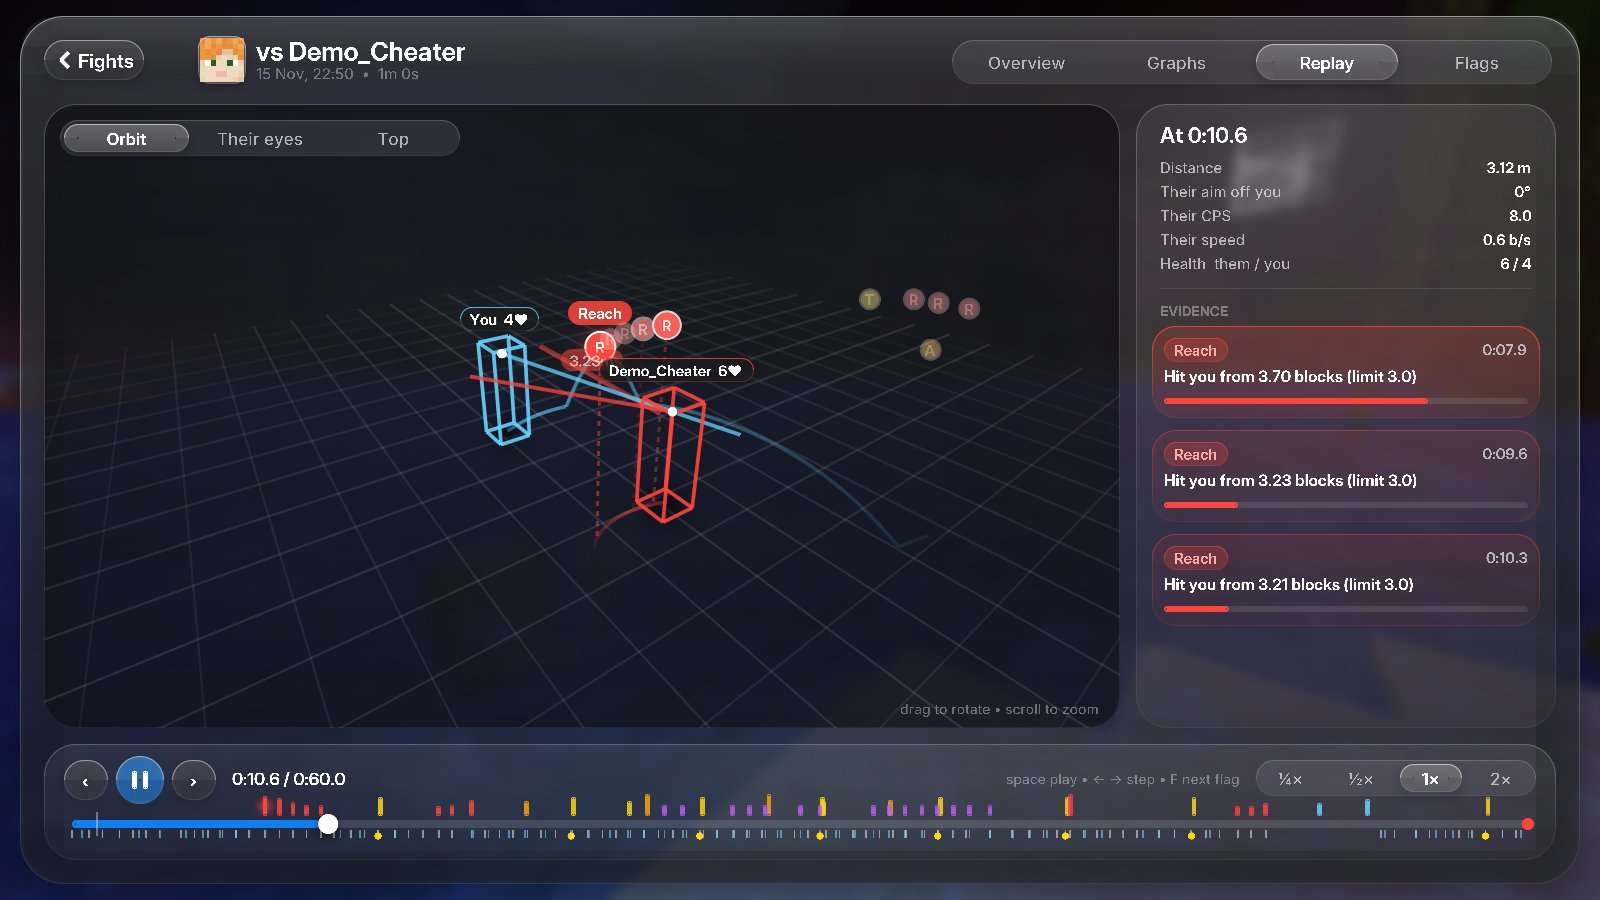
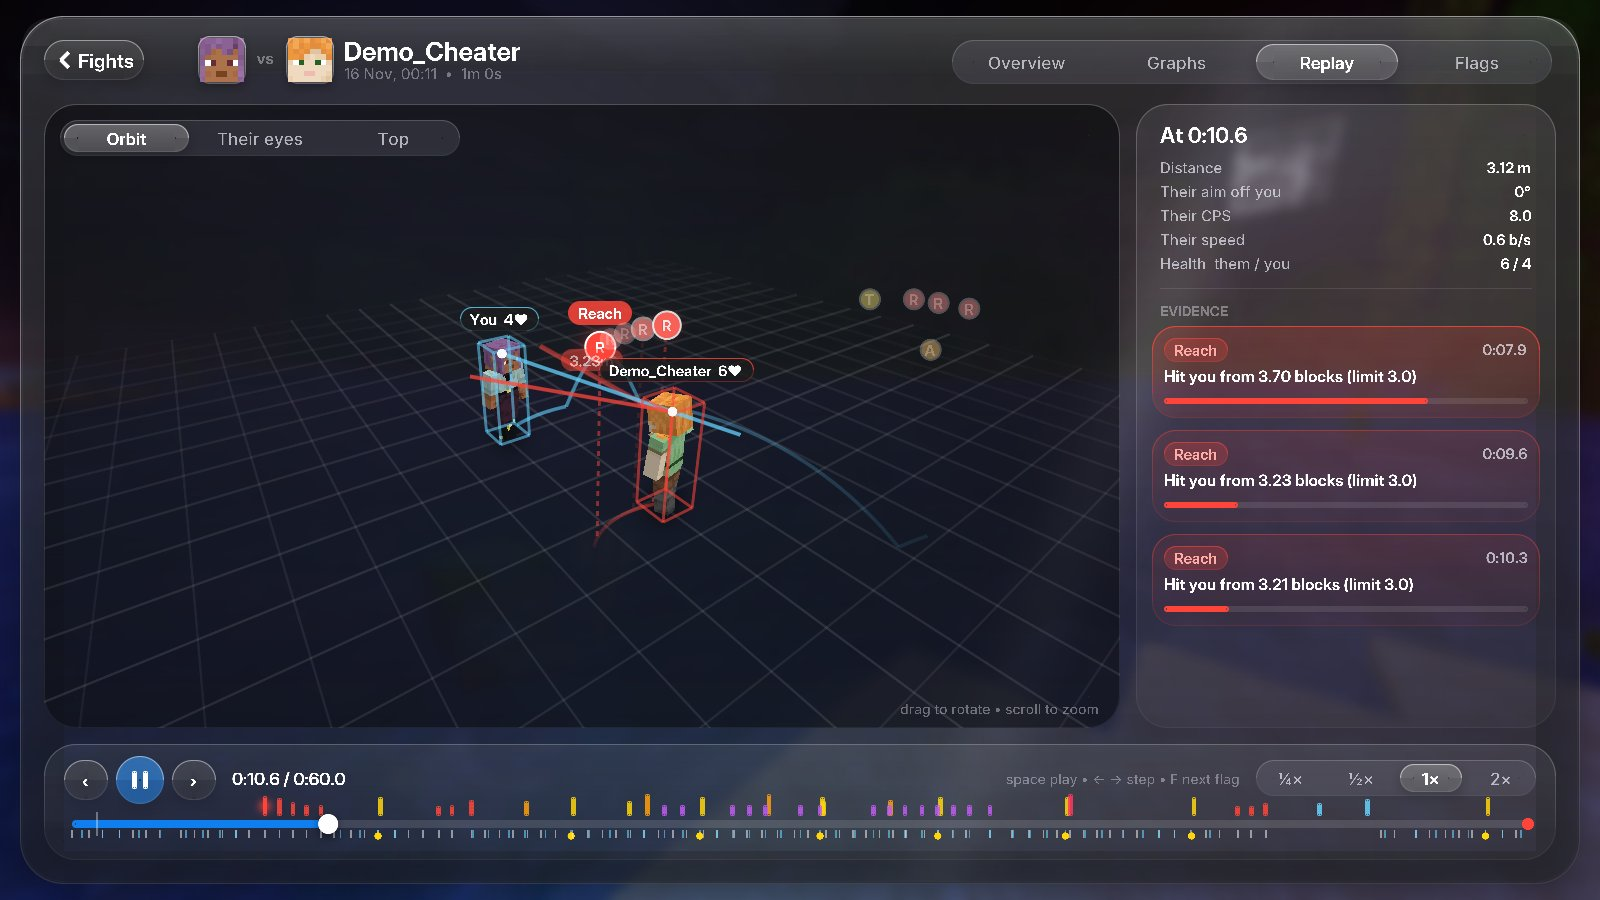
Show both players' skins in the replay
Players are drawn as real skinned Minecraft models (head, hat layer, body,
arms incl. slim, legs) with walk animation, attack swings and head pitch.
Skins come from the tab list, or from the signed skin property now saved with
each fight so they still load after a player logs off. The report header shows
your head and theirs.

Claude-Session: https://claude.ai/code/session_01NpriFT8grMu5KJukege1Ze

Changed region(s): [[0.125, 0.0311, 0.3125, 0.0933], [0.375, 0.4356, 0.4375, 0.5911], [0.2812, 0.3733, 0.3438, 0.4978]]

diff --git a/src/main/java/dev/pvpmod/analyzer/gui/ReplayView.java b/src/main/java/dev/pvpmod/analyzer/gui/ReplayView.java
@@ -9,6 +9,16 @@ import dev.pvpmod.analyzer.PState;
 import dev.pvpmod.glass.Col;
 import dev.pvpmod.glass.GFont;
 import dev.pvpmod.glass.Glass;
+import net.minecraft.client.MinecraftClient;
+import net.minecraft.client.gl.RenderPipelines;
+import net.minecraft.entity.player.PlayerSkinType;
+import net.minecraft.entity.player.SkinTextures;
+import net.minecraft.util.Identifier;
+import org.joml.Matrix3x2f;
+import org.joml.Matrix3x2fStack;
+
+import java.util.ArrayList;
+import java.util.List;
 
 /**
  * A small software 3D renderer for the replay: projects the recorded players, their hitboxes, look rays, trails,
@@ -20,7 +30,7 @@ final class ReplayView {
     final FightRecord rec;
     final Analyzer an;
     int mode = ORBIT;
-    float yaw = 35f, pitch = 28f, dist = 9f;
+    float yaw = 35f, pitch = 22f, dist = 6.5f;
     double tx = Double.NaN, ty, tz;     // smoothed orbit target
 
     // camera basis
@@ -221,7 +231,12 @@ final class ReplayView {
             }
         }
 
-        // players
+        // players: skinned models, then hitbox, look ray and name tag on top
+        List<Face> faces = new ArrayList<>();
+        modelFaces(faces, me, mySkin(), ph, true);
+        if (mode != EYES) modelFaces(faces, op, Ui.skin(rec.opUuid, rec.opName, rec.opTex, rec.opSig), ph, false);
+        faces.sort((a, b) -> Double.compare(b.depth, a.depth));
+        for (Face f : faces) drawFace(f);
         drawPlayer(me, Col.CYAN, "You", mode != EYES);
         if (mode != EYES) drawPlayer(op, Col.RED, rec.opName, true);
 
@@ -240,7 +255,7 @@ final class ReplayView {
         if (p == null) return;
         boolean absent = p.has(PState.ABSENT);
         float a = absent ? 0.3f : 1f;
-        box(p, Col.a(rgb, 0.9f * a), 1.5f);
+        box(p, Col.a(rgb, 0.55f * a), 1.0f);
         if (showLook && !absent) {
             double[] l = Analyzer.look(p.yw, p.pt);
             double len = 4.5;
@@ -259,4 +274,134 @@ final class ReplayView {
     }
 
     private static double clamp(double v, double lo, double hi) { return Math.max(lo, Math.min(hi, v)); }
+
+    // ------------------------------------------------------------------ skinned player models
+    private record Face(float[] s0, float[] s1, float[] s3, double depth, Identifier tex, int u, int v, int w, int h, int color) {}
+
+    private double[] meDist, opDist;
+
+    private SkinTextures mySkin() {
+        String id = rec.meUuid;
+        if (id == null || id.isEmpty()) id = MinecraftClient.getInstance().getGameProfile().id().toString();
+        return Ui.skin(id, rec.meName, rec.meTex, rec.meSig);
+    }
+
+    /** Cumulative horizontal distance walked, which drives the arm and leg swing like the real game. */
+    private double[] dist(boolean mine) {
+        if (mine && meDist != null) return meDist;
+        if (!mine && opDist != null) return opDist;
+        int n = rec.frames.size();
+        double[] d = new double[n];
+        for (int i = 1; i < n; i++) {
+            PState a = mine ? rec.frames.get(i - 1).me : rec.frames.get(i - 1).op;
+            PState b = mine ? rec.frames.get(i).me : rec.frames.get(i).op;
+            double dx = b.x - a.x, dz = b.z - a.z, step = Math.sqrt(dx * dx + dz * dz);
+            d[i] = d[i - 1] + (step > 2 ? 0 : step);
+        }
+        if (mine) meDist = d; else opDist = d;
+        return d;
+    }
+
+    private double distAt(double[] d, float ph) {
+        int i = Math.max(0, Math.min(d.length - 1, (int) ph)), j = Math.min(d.length - 1, i + 1);
+        return d[i] + (d[j] - d[i]) * Math.max(0, Math.min(1, ph - i));
+    }
+
+    /** 0..1 progress of an attack swing at the playhead, or -1. */
+    private float swing(float ph, boolean mine) {
+        int t = (int) ph;
+        if (mine) {
+            for (FightEvent e : rec.events)
+                if (e.k == FightEvent.Kind.HIT_OP && e.t <= ph && ph - e.t < 6) return (ph - e.t) / 6f;
+            return -1;
+        }
+        for (int i = t; i >= Math.max(0, t - 5); i--) {
+            if (i < rec.frames.size() && rec.frames.get(i).op.s > 0) return Math.min(1f, (ph - i) / 6f);
+        }
+        return -1;
+    }
+
+    private void modelFaces(List<Face> out, PState p, SkinTextures skin, float ph, boolean mine) {
+        if (p == null || rec.frames.isEmpty()) return;
+        Identifier tex = skin.body().texturePath();
+        boolean slim = skin.model() == PlayerSkinType.SLIM;
+        double[] d = dist(mine);
+        double phase = distAt(d, ph) * 2.66;
+        double speed = distAt(d, ph) - distAt(d, ph - 1);
+        double amt = clamp(speed * 4.5, 0, 1);
+        double leg = Math.cos(phase) * 1.4 * amt * 0.6;
+        double arm = Math.cos(phase + Math.PI) * amt * 0.8;
+        float sw = swing(ph, mine);
+        double attack = sw >= 0 ? -Math.sin(sw * Math.PI) * 1.5 - 0.25 : 0;
+        double headPitch = Math.toRadians(clamp(p.pt, -90, 90));
+        float alpha = (p.has(PState.ABSENT) ? 0.3f : 1f) * Glass.alpha;
+        int aw = slim ? 3 : 4;
+
+        //            x0     y0    z0    x1      y1    z1   texU texV  uw  uh  ud  pivotY pivotX rot
+        part(out, p, tex, alpha, -4, 24, -4, 4, 32, 4, 0, 0, 8, 8, 8, 0, 24, headPitch);
+        part(out, p, tex, alpha, -4.5, 23.5, -4.5, 4.5, 32.5, 4.5, 32, 0, 8, 8, 8, 0, 24, headPitch);
+        part(out, p, tex, alpha, -4, 12, -2, 4, 24, 2, 16, 16, 8, 12, 4, 0, 12, 0);
+        part(out, p, tex, alpha, -4 - aw, 12, -2, -4, 24, 2, 40, 16, aw, 12, 4, -5, 22, arm + attack);
+        part(out, p, tex, alpha, 4, 12, -2, 4 + aw, 24, 2, 32, 48, aw, 12, 4, 5, 22, -arm);
+        part(out, p, tex, alpha, -4, 0, -2, 0, 12, 2, 0, 16, 4, 12, 4, -2, 12, leg);
+        part(out, p, tex, alpha, 0, 0, -2, 4, 12, 2, 16, 48, 4, 12, 4, 2, 12, -leg);
+    }
+
+    /** One box of the player model (Minecraft skin layout), as up to 6 textured faces facing the camera. */
+    private void part(List<Face> out, PState p, Identifier tex, float alpha,
+                      double x0, double y0, double z0, double x1, double y1, double z1,
+                      int tu, int tv, int w, int h, int dd, double pivX, double pivY, double rot) {
+        double[][][] faces = {
+            // {p0 (image top-left), p1 (top-right), p3 (bottom-left), normal}
+            {{x0, y1, z1}, {x1, y1, z1}, {x0, y0, z1}, {0, 0, 1}},
+            {{x1, y1, z0}, {x0, y1, z0}, {x1, y0, z0}, {0, 0, -1}},
+            {{x0, y1, z0}, {x0, y1, z1}, {x0, y0, z0}, {-1, 0, 0}},
+            {{x1, y1, z1}, {x1, y1, z0}, {x1, y0, z1}, {1, 0, 0}},
+            {{x0, y1, z0}, {x1, y1, z0}, {x0, y1, z1}, {0, 1, 0}},
+            {{x0, y0, z1}, {x1, y0, z1}, {x0, y0, z0}, {0, -1, 0}}
+        };
+        int[][] uv = {
+            {tu + dd, tv + dd, w, h}, {tu + 2 * dd + w, tv + dd, w, h}, {tu, tv + dd, dd, h},
+            {tu + dd + w, tv + dd, dd, h}, {tu + dd, tv, w, dd}, {tu + dd + w, tv, w, dd}
+        };
+        float[] shade = {0.85f, 0.85f, 0.68f, 0.68f, 1f, 0.5f};
+        double k = 1.8 / 32.0, yaw = Math.toRadians(p.yw), drop = p.has(PState.SNEAK) ? 0.15 : 0;
+        double cr = Math.cos(rot), sr = Math.sin(rot), cyw = Math.cos(yaw), syw = Math.sin(yaw);
+        for (int f = 0; f < 6; f++) {
+            double[][] q = new double[4][3];
+            double[][] src = {faces[f][0], faces[f][1], faces[f][2],
+                {faces[f][1][0] + faces[f][2][0] - faces[f][0][0], faces[f][1][1] + faces[f][2][1] - faces[f][0][1], faces[f][1][2] + faces[f][2][2] - faces[f][0][2]}};
+            for (int c = 0; c < 4; c++) {
+                double mx = src[c][0] - pivX, my = src[c][1] - pivY, mz = src[c][2];
+                double ry = my * cr - mz * sr, rz = my * sr + mz * cr;          // pitch about the pivot
+                double wx = (mx + pivX) * k, wy = (ry + pivY) * k, wz = rz * k;
+                q[c][0] = p.x + wx * cyw - wz * syw;                              // body yaw
+                q[c][1] = p.y - drop + wy;
+                q[c][2] = p.z + wx * syw + wz * cyw;
+            }
+            double[] n = faces[f][3];
+            double ny = n[1] * cr - n[2] * sr, nz = n[1] * sr + n[2] * cr, nx = n[0];
+            double wnx = nx * cyw - nz * syw, wnz = nx * syw + nz * cyw;
+            double fcx = (q[0][0] + q[3][0]) / 2, fcy = (q[0][1] + q[3][1]) / 2, fcz = (q[0][2] + q[3][2]) / 2;
+            if (wnx * (fcx - cx) + ny * (fcy - cy) + wnz * (fcz - cz) >= 0) continue;   // back face
+            double[] c0 = cam(q[0][0], q[0][1], q[0][2]), c1 = cam(q[1][0], q[1][1], q[1][2]),
+                c2 = cam(q[2][0], q[2][1], q[2][2]), c3 = cam(q[3][0], q[3][1], q[3][2]);
+            if (c0[2] < 0.1 || c1[2] < 0.1 || c2[2] < 0.1 || c3[2] < 0.1) continue;
+            int sh = Math.round(255 * shade[f]);
+            int color = (Math.round(alpha * 255) << 24) | (sh << 16) | (sh << 8) | sh;
+            out.add(new Face(screen(c0), screen(c1), screen(c2), cam(fcx, fcy, fcz)[2], tex, uv[f][0], uv[f][1], uv[f][2], uv[f][3], color));
+        }
+    }
+
+    /** Draws a face as an affine-mapped textured quad. */
+    private void drawFace(Face f) {
+        Matrix3x2fStack m = Glass.ctx().getMatrices();
+        m.pushMatrix();
+        m.mul(new Matrix3x2f(
+            (f.s1[0] - f.s0[0]) / f.w, (f.s1[1] - f.s0[1]) / f.w,
+            (f.s3[0] - f.s0[0]) / f.h, (f.s3[1] - f.s0[1]) / f.h,
+            f.s0[0], f.s0[1]));
+        Glass.ctx().drawTexture(RenderPipelines.GUI_TEXTURED, f.tex, 0, 0, f.u, f.v, f.w, f.h, f.w, f.h, 64, 64, f.color);
+        m.popMatrix();
+    }
 }

diff --git a/src/main/java/dev/pvpmod/analyzer/gui/Ui.java b/src/main/java/dev/pvpmod/analyzer/gui/Ui.java
@@ -1,5 +1,9 @@
 package dev.pvpmod.analyzer.gui;
 
+import com.google.common.collect.ImmutableMultimap;
+import com.mojang.authlib.GameProfile;
+import com.mojang.authlib.properties.Property;
+import com.mojang.authlib.properties.PropertyMap;
 import dev.pvpmod.glass.Col;
 import dev.pvpmod.glass.Glass;
 import net.minecraft.client.MinecraftClient;
@@ -10,7 +14,10 @@ import net.minecraft.entity.player.SkinTextures;
 
 import java.text.SimpleDateFormat;
 import java.util.Date;
+import java.util.HashMap;
+import java.util.Map;
 import java.util.UUID;
+import java.util.function.Supplier;
 
 /** Small shared helpers for the analyzer screens. */
 final class Ui {
@@ -32,7 +39,15 @@ final class Ui {
         return new SimpleDateFormat("d MMM, HH:mm").format(new Date(epoch));
     }
 
-    static SkinTextures skin(String uuid) {
+    private static final Map<String, Supplier<SkinTextures>> SKINS = new HashMap<>();
+
+    static SkinTextures skin(String uuid) { return skin(uuid, "", "", ""); }
+
+    /**
+     * Skin for a player: from the tab list when they are online, otherwise from the skin property saved with the
+     * fight (loaded through the game's skin cache), otherwise the default skin for their UUID.
+     */
+    static SkinTextures skin(String uuid, String name, String tex, String sig) {
         UUID id;
         try { id = UUID.fromString(uuid); } catch (Exception e) { return DefaultSkinHelper.getSteve(); }
         MinecraftClient mc = MinecraftClient.getInstance();
@@ -40,14 +55,34 @@ final class Ui {
             PlayerListEntry e = mc.getNetworkHandler().getPlayerListEntry(id);
             if (e != null) return e.getSkinTextures();
         }
-        return DefaultSkinHelper.getSkinTextures(id);
+        Supplier<SkinTextures> s = SKINS.computeIfAbsent(uuid, k -> {
+            GameProfile profile;
+            if (tex != null && !tex.isEmpty()) {
+                Property prop = sig == null || sig.isEmpty() ? new Property("textures", tex) : new Property("textures", tex, sig);
+                profile = new GameProfile(id, name == null || name.isEmpty() ? "player" : name,
+                    new PropertyMap(ImmutableMultimap.of("textures", prop)));
+            } else if (id.equals(mc.getGameProfile().id())) {
+                profile = mc.getGameProfile();
+            } else {
+                return () -> DefaultSkinHelper.getSkinTextures(id);
+            }
+            try {
+                return mc.getSkinProvider().supplySkinTextures(profile, false);
+            } catch (Exception ex) {
+                return () -> DefaultSkinHelper.getSkinTextures(id);
+            }
+        });
+        SkinTextures t = s.get();
+        return t == null ? DefaultSkinHelper.getSkinTextures(id) : t;
     }
 
     /** Player head inside a rounded glass frame. */
-    static void head(String uuid, float x, float y, int size) {
+    static void head(String uuid, float x, float y, int size) { head(skin(uuid), x, y, size); }
+
+    static void head(SkinTextures skin, float x, float y, int size) {
         Glass.shadow(x, y, size, size, size * 0.28f, 5, Col.a(0, 0.35f));
         Glass.round(x - 1, y - 1, size + 2, size + 2, size * 0.28f, Col.a(0xFFFFFF, 0.18f));
-        PlayerSkinDrawer.draw(Glass.ctx(), skin(uuid), Math.round(x), Math.round(y), size);
+        PlayerSkinDrawer.draw(Glass.ctx(), skin, Math.round(x), Math.round(y), size);
         Glass.rim(x - 1, y - 1, size + 2, size + 2, size * 0.28f, Col.a(0xFFFFFF, 0.5f), Col.a(0xFFFFFF, 0.12f));
     }
 

diff --git a/src/main/java/dev/pvpmod/analyzer/FightTracker.java b/src/main/java/dev/pvpmod/analyzer/FightTracker.java
@@ -196,6 +196,11 @@ public final class FightTracker {
         Live l = new Live(op);
         l.rec.start = System.currentTimeMillis();
         l.rec.id = new SimpleDateFormat("yyyyMMdd-HHmmss").format(new Date(l.rec.start)) + "-" + op.getGameProfile().name().replaceAll("[^A-Za-z0-9_]", "");
+        l.rec.meUuid = mc.player.getUuid().toString();
+        l.rec.meName = mc.player.getGameProfile().name();
+        String[] meTex = textures(mc, mc.player), opTex = textures(mc, op);
+        l.rec.meTex = meTex[0]; l.rec.meSig = meTex[1];
+        l.rec.opTex = opTex[0]; l.rec.opSig = opTex[1];
         l.rec.server = mc.getCurrentServerEntry() != null ? mc.getCurrentServerEntry().address : (mc.isInSingleplayer() ? "Singleplayer" : "");
         l.rec.dim = mc.world.getRegistryKey().getValue().toString();
 
@@ -339,6 +344,20 @@ public final class FightTracker {
         if (mc.getNetworkHandler() == null) return 0;
         PlayerListEntry e = mc.getNetworkHandler().getPlayerListEntry(id);
         return e == null ? 0 : Math.max(0, Math.min(1000, e.getLatency()));
+    }
+
+    /** The signed skin property of a player ({value, signature}), from the tab list or their profile. */
+    private static String[] textures(MinecraftClient mc, PlayerEntity p) {
+        com.mojang.authlib.GameProfile profile = p.getGameProfile();
+        if (mc.getNetworkHandler() != null) {
+            PlayerListEntry e = mc.getNetworkHandler().getPlayerListEntry(p.getUuid());
+            if (e != null) profile = e.getProfile();
+        }
+        if (p == mc.player && profile.properties().get("textures").isEmpty()) profile = mc.getGameProfile();
+        for (com.mojang.authlib.properties.Property prop : profile.properties().get("textures")) {
+            return new String[]{prop.value(), prop.signature() == null ? "" : prop.signature()};
+        }
+        return new String[]{"", ""};
     }
 
     private static boolean isTotem(ItemStack s) { return s.isOf(net.minecraft.item.Items.TOTEM_OF_UNDYING); }

diff --git a/src/main/java/dev/pvpmod/analyzer/gui/FightReportScreen.java b/src/main/java/dev/pvpmod/analyzer/gui/FightReportScreen.java
@@ -144,9 +144,16 @@ public class FightReportScreen extends GlassScreen {
         Glass.panel(x0, y0, pw, ph, 22);
 
         if (backButton("Fights", x0 + 12, y0 + 12)) close();
-        Ui.head(meta.opUuid, x0 + 90, y0 + 11, 22);
-        GFont.draw(GFont.fit("vs " + meta.opName, 150, 12, true), x0 + 118, y0 + 11, 12, Col.LABEL, true);
-        GFont.draw(Ui.date(meta.start) + "  •  " + Ui.duration(meta.ticks), x0 + 118, y0 + 25, 7, Col.LABEL3, false);
+        float hx = x0 + 90;
+        if (rec != null) {
+            String myId = rec.meUuid == null || rec.meUuid.isEmpty() ? client.getGameProfile().id().toString() : rec.meUuid;
+            Ui.head(Ui.skin(myId, rec.meName, rec.meTex, rec.meSig), hx, y0 + 11, 22);
+            GFont.drawCentered("vs", hx + 33, y0 + 17, 7.5f, Col.LABEL3, true);
+            hx += 44;
+        }
+        Ui.head(Ui.skin(meta.opUuid, meta.opName, meta.opTex, meta.opSig), hx, y0 + 11, 22);
+        GFont.draw(GFont.fit(meta.opName, 150, 12, true), hx + 28, y0 + 11, 12, Col.LABEL, true);
+        GFont.draw(Ui.date(meta.start) + "  \u2022  " + Ui.duration(meta.ticks), hx + 28, y0 + 25, 7, Col.LABEL3, false);
 
         boolean wide = pw >= 560;
         float segW = wide ? 300 : Math.min(300, pw - 24);

diff --git a/src/main/java/dev/pvpmod/analyzer/FightRecord.java b/src/main/java/dev/pvpmod/analyzer/FightRecord.java
@@ -9,6 +9,9 @@ public class FightRecord {
     public String id = "";
     public String opName = "?";
     public String opUuid = "";
+    public String meName = "", meUuid = "";
+    /** Signed "textures" profile properties, so skins still load after the players log off. */
+    public String opTex = "", opSig = "", meTex = "", meSig = "";
     public String server = "";
     public String dim = "";
     public long start;
@@ -25,6 +28,8 @@ public class FightRecord {
         m.id = id;
         m.opName = opName;
         m.opUuid = opUuid;
+        m.opTex = opTex;
+        m.opSig = opSig;
         m.server = server;
         m.start = start;
         m.ticks = ticks();
@@ -47,7 +52,7 @@ public class FightRecord {
 
     /** Small summary stored next to each fight, so the list opens instantly. */
     public static class FightMeta {
-        public String id, opName, opUuid, server, result;
+        public String id, opName, opUuid, server, result, opTex = "", opSig = "";
         public long start;
         public int ticks, flags, hitsGiven, hitsTaken;
         public float score;

diff --git a/src/main/java/dev/pvpmod/analyzer/DemoFight.java b/src/main/java/dev/pvpmod/analyzer/DemoFight.java
@@ -126,6 +126,14 @@ public final class DemoFight {
     /** Create, analyse and save a demo fight. */
     public static FightRecord.FightMeta saveDemo() {
         FightRecord r = create();
+        var mc = net.minecraft.client.MinecraftClient.getInstance();
+        var me = mc.getGameProfile();
+        r.meUuid = me.id().toString();
+        r.meName = me.name();
+        for (var prop : me.properties().get("textures")) {
+            r.meTex = prop.value();
+            r.meSig = prop.signature() == null ? "" : prop.signature();
+        }
         Analyzer a = Analyzer.run(r);
         FightRecord.FightMeta m = r.meta(a);
         FightStore.save(r, m);

diff --git a/src/main/java/dev/pvpmod/analyzer/gui/AnalyzerHomeScreen.java b/src/main/java/dev/pvpmod/analyzer/gui/AnalyzerHomeScreen.java
@@ -150,7 +150,7 @@ public class AnalyzerHomeScreen extends GlassScreen {
         float k = hs.get();
         Glass.button(x - k, y - k * 0.5f, w + 2 * k, h + k, 15, 0x1C1C1E, 0.30f, k * 0.6f);
 
-        Ui.head(m.opUuid, x + 12, y + (h - 26) / 2f, 26);
+        Ui.head(Ui.skin(m.opUuid, m.opName, m.opTex, m.opSig), x + 12, y + (h - 26) / 2f, 26);
         float tx = x + 48;
         GFont.draw(GFont.fit(m.opName, w * 0.35f, 10.5f, true), tx, y + 9, 10.5f, Col.LABEL, true);
         String res = m.result == null ? "END" : m.result;

diff --git a/README.md b/README.md
@@ -18,6 +18,7 @@ the rest of the mod still loads.
 
 ![Overview](docs/overview.jpg)
 ![Replay](docs/replay.jpg)
+![Their eyes](docs/replay-eyes.jpg)
 ![Graphs](docs/graphs.jpg)
 
 Press **J** (or `/pvpmod fights`, or the "Fight Analyzer" button in `/pvpmod`) to open it.
@@ -31,7 +32,7 @@ Each fight gets a report with four tabs:
 - **Overview**: suspicion ring (0-100%), verdict, a score per check and fight stats (max/avg reach, peak CPS, hits, pops).
 - **Graphs**: reach per hit, CPS, aim error, speed, health of both players and suspicion over time. Flags are marked
   on the lines. Click any graph to jump to that moment in the replay.
-- **Replay**: a 3D reconstruction of the fight (orbit, top-down, or **their eyes**, which shows what the opponent
+- **Replay**: a 3D reconstruction of the fight with both players drawn as real models wearing their skins (walking, arm swings on hits, head pitch) (orbit, top-down, or **their eyes**, which shows what the opponent
   was looking at). Hitboxes, look rays, hit lines with the measured reach, totem pops and a pin at every flagged
   moment. The timeline shows every flag; `F` jumps to the next one, space plays, arrow keys step a tick.
 - **Flags**: every suspicious moment in order, with the measured value. Click one to watch it.
